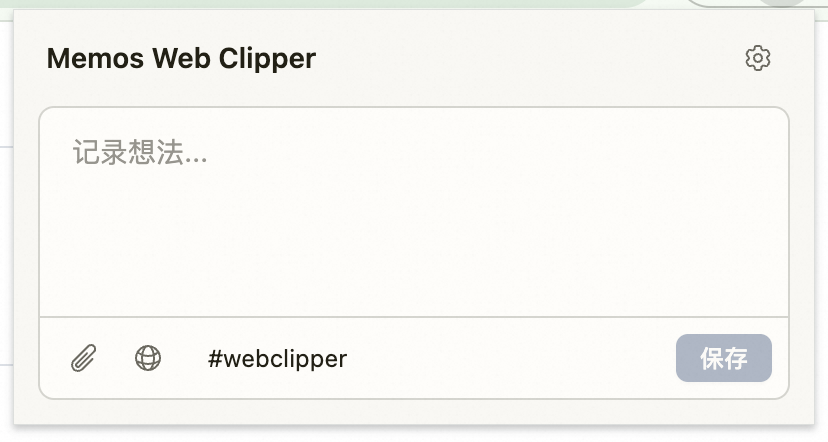
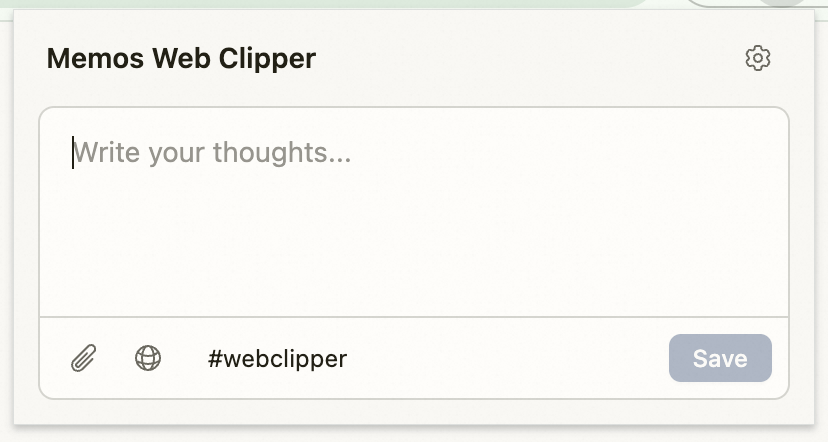
fix: update screenshot path in README and replace the screenshot image
Updated the image source in README.md to a relative path and replaced the screenshot with a new version.

Changed region(s): [[0.0906, 0.2941, 0.4227, 0.3824], [0.785, 0.7647, 0.9058, 0.8529]]

diff --git a/README.md b/README.md
@@ -2,7 +2,7 @@
 
 A Chrome extension for [Memos](https://github.com/usememos/memos) — clip web pages, capture thoughts, and save everything to your self-hosted Memos instance.
 
-<img src="https://github.com/tjkkking/memos-chrome-extension/blob/main/public/screenshot.png" alt="Memos Web Clipper" width="500">
+<img src="./public/screenshot.png" alt="Memos Web Clipper" width="500">
 
 ## Features
 
